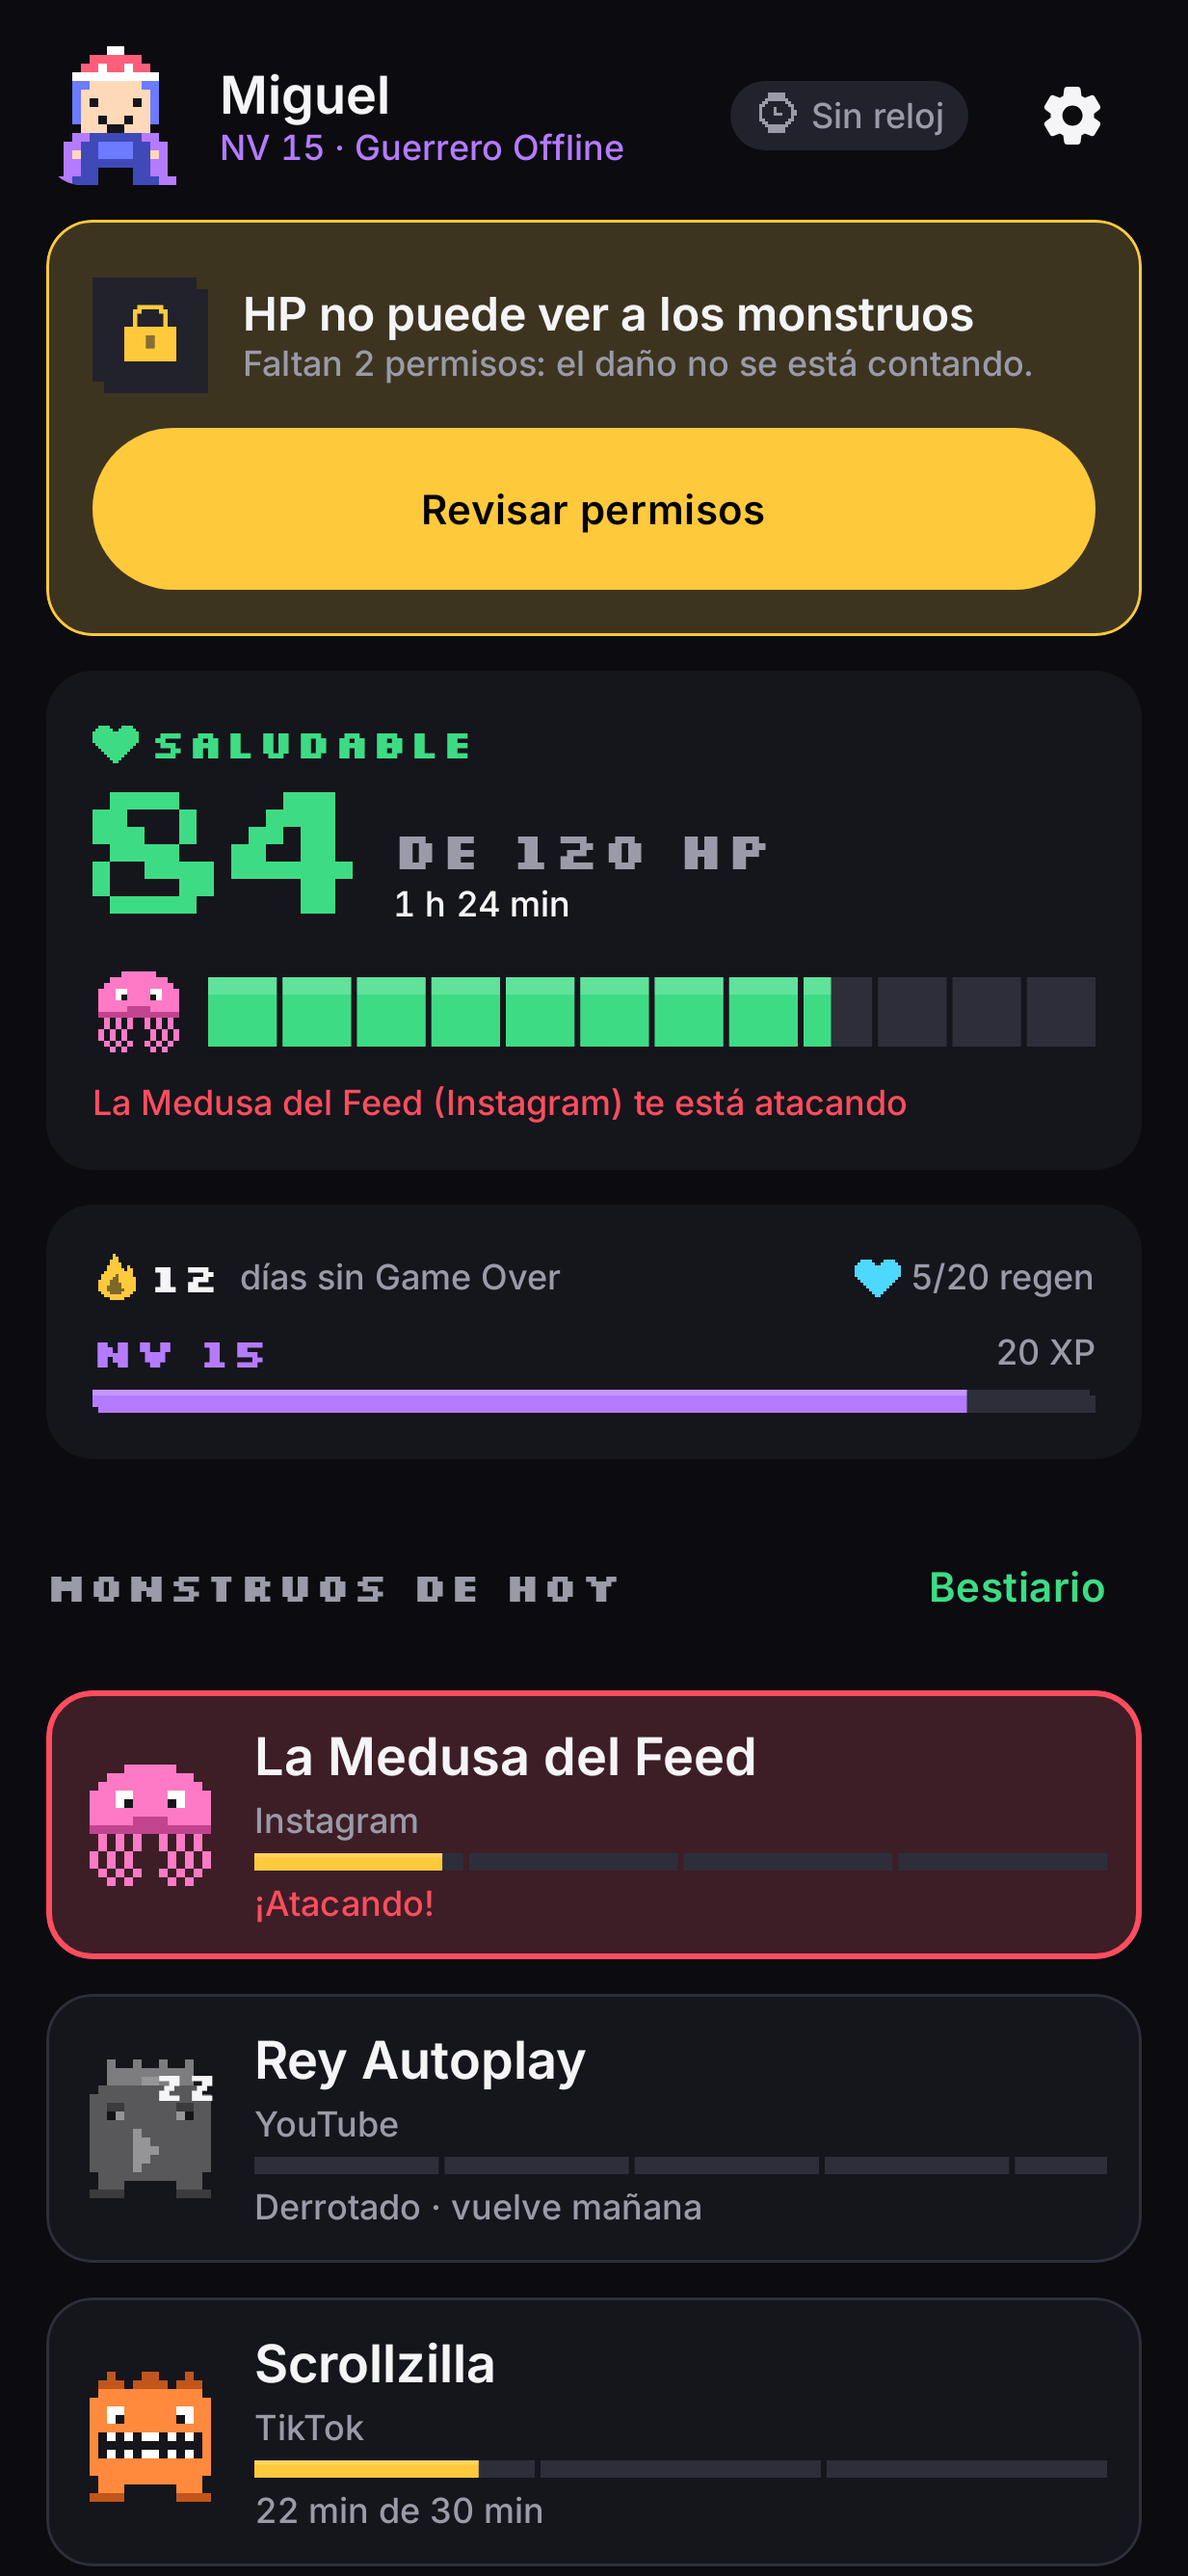
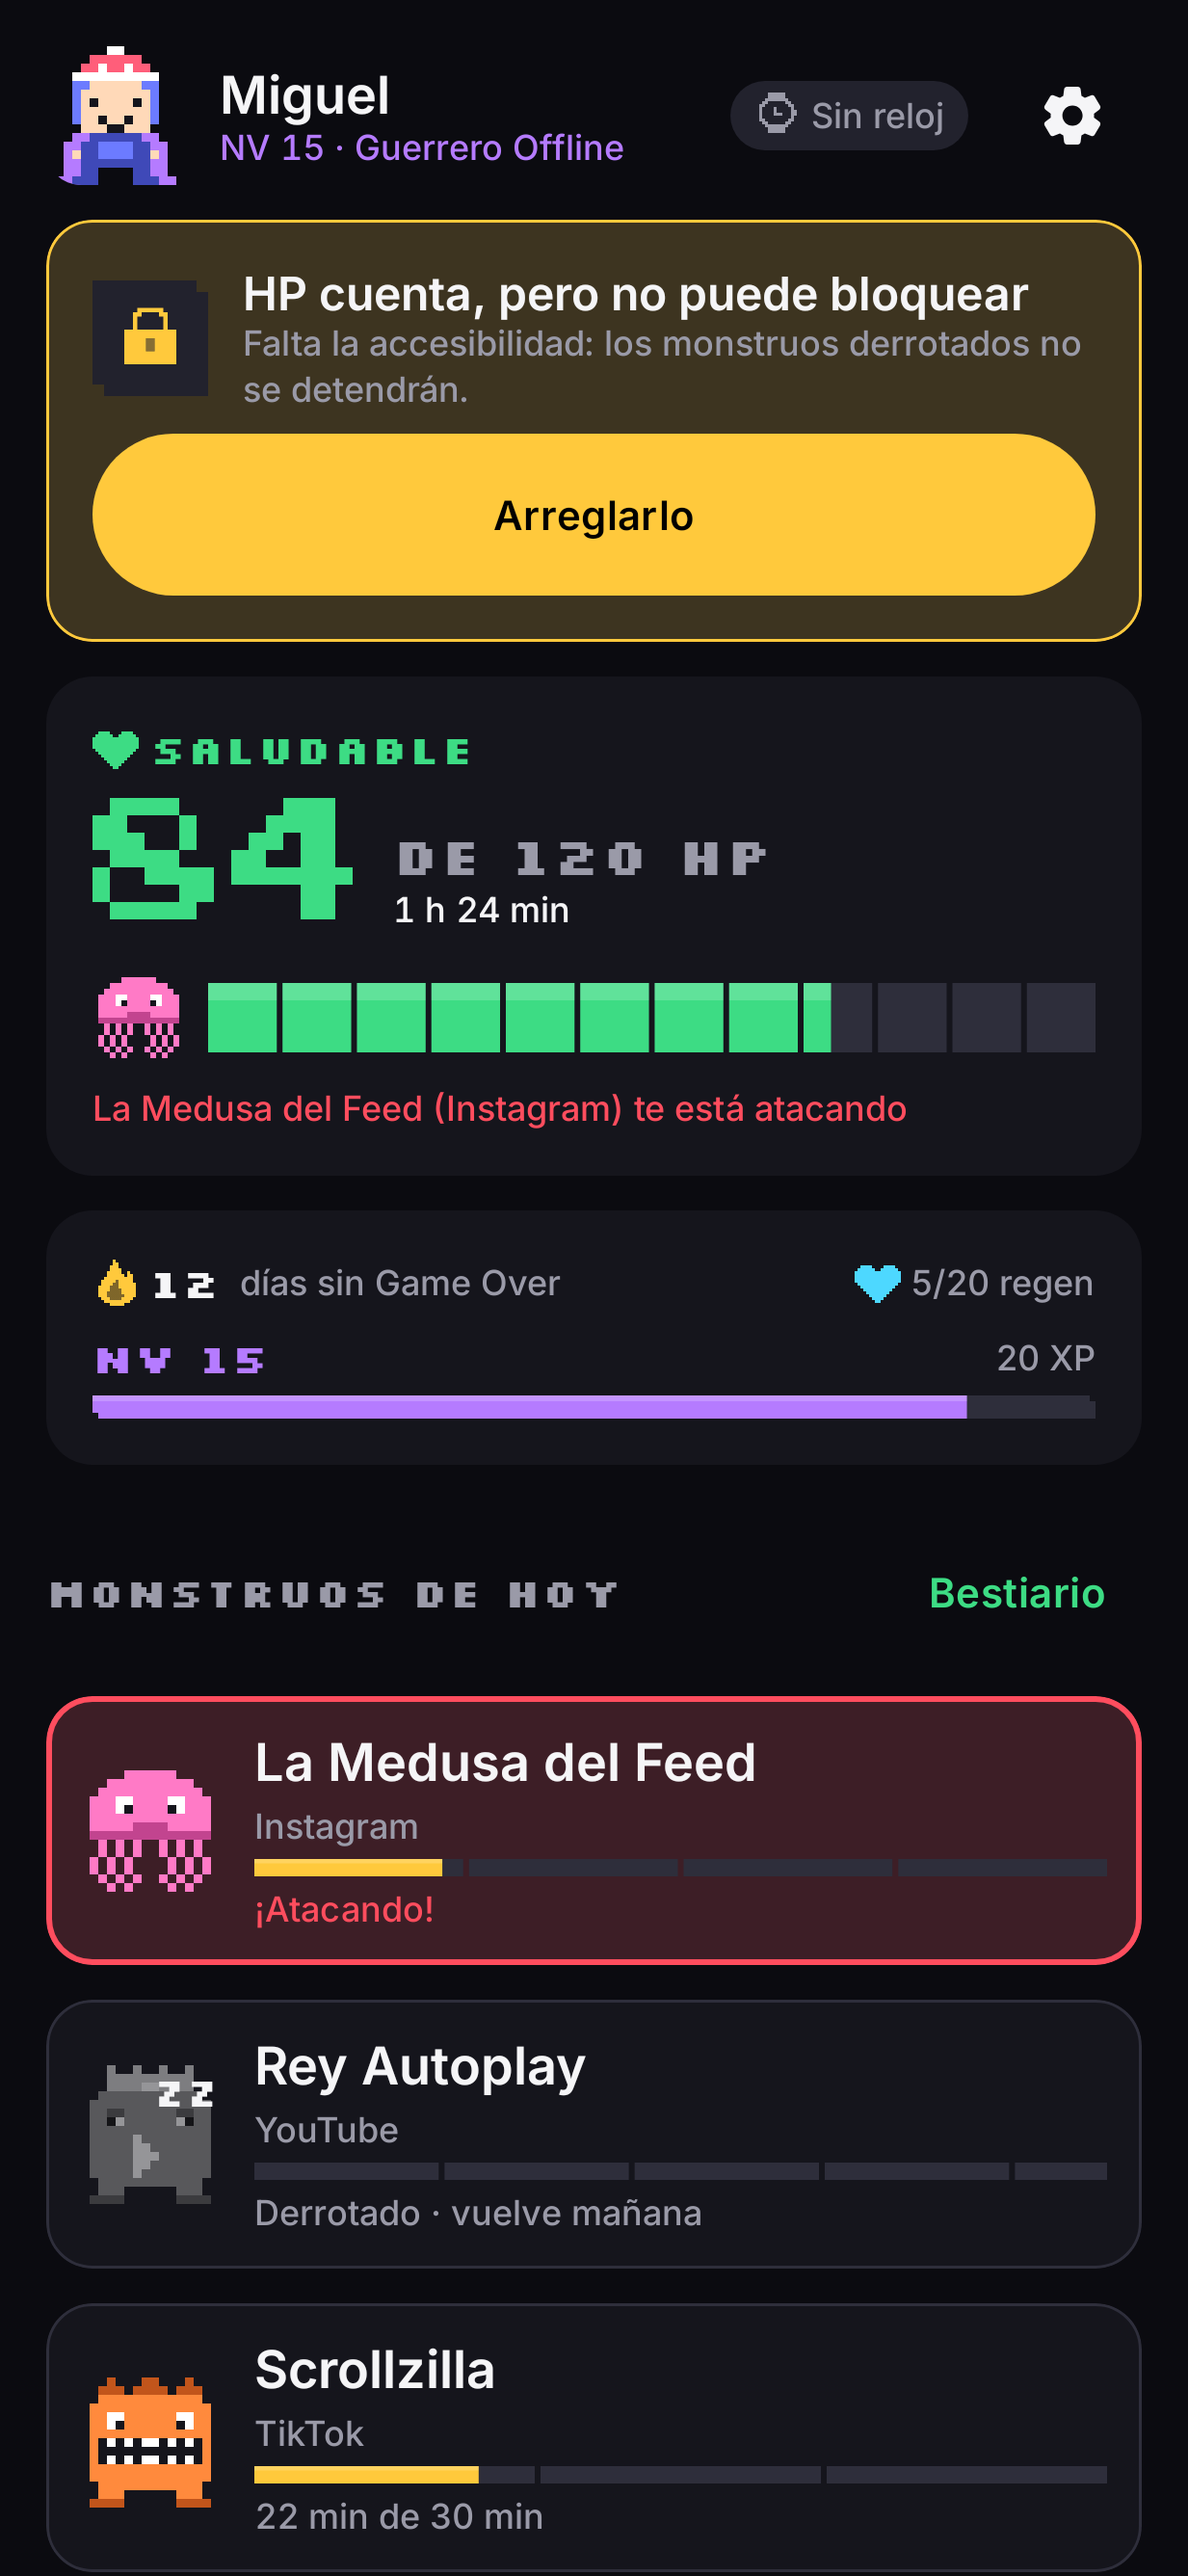
Permisos guiados y protección de batería (encontrado al probar en un Samsung A55)
- El aviso del panel dice qué falta y qué deja de funcionar (contar vs. bloquear).
- Ayuda paso a paso para el "Ajuste restringido" de la Accesibilidad (Android 13+),
  con botón directo a la ficha de la app.
- Nuevo permiso recomendado: funcionar en segundo plano sin restricciones de batería,
  con aviso suave en el panel (Samsung cierra el monitoreo para ahorrar batería).
- Capturas 06 y 33.

diff --git a/mobile/src/main/java/com/desconecta/hp/mobile/ui/home/HomeScreen.kt b/mobile/src/main/java/com/desconecta/hp/mobile/ui/home/HomeScreen.kt
@@ -36,6 +36,7 @@ import androidx.compose.ui.semantics.heading
 import androidx.compose.ui.semantics.semantics
 import androidx.compose.ui.text.style.TextAlign
 import androidx.compose.ui.unit.dp
+import com.desconecta.hp.mobile.system.HpPermission
 import com.desconecta.hp.mobile.ui.ai.BerserkerCard
 import com.desconecta.hp.mobile.ui.ai.CoachCard
 import com.desconecta.hp.mobile.ui.ai.OracleLine
@@ -83,6 +84,8 @@ fun HomeScreen(
     onOpenSettings: () -> Unit,
     onStudyMode: (Int) -> Unit,
     syncIndicator: @Composable () -> Unit = {},
+    /** Permisos que faltan (para decir qué deja de funcionar). */
+    missing: Set<HpPermission> = emptySet(),
     /** Última frase del coach de hoy (null = coach apagado o nada que decir). */
     coach: AiInsight? = null,
     /** Sugerencias de límite pendientes de respuesta. */
@@ -125,15 +128,39 @@ fun HomeScreen(
         }
 
         // --- Sin permisos ----------------------------------------------------------------
+        // Dice QUÉ falta y QUÉ deja de funcionar (no es lo mismo no contar que no bloquear).
+        val noUsage = HpPermission.USAGE in missing
+        val noBlock = HpPermission.ACCESSIBILITY in missing || HpPermission.OVERLAY in missing
         if (missingPermissions > 0) {
             item {
                 HpCard(container = c.hurtContainer, border = c.hpHurt) {
                     InfoRow(
                         PixelIcons.Lock, c.hpHurt,
-                        title = "HP no puede ver a los monstruos",
-                        subtitle = "Faltan $missingPermissions permiso${if (missingPermissions > 1) "s" else ""}: el daño no se está contando.",
+                        title = when {
+                            noUsage -> "HP no está contando tu tiempo"
+                            noBlock -> "HP cuenta, pero no puede bloquear"
+                            else -> "Faltan permisos"
+                        },
+                        subtitle = when {
+                            noUsage && noBlock -> "Falta el acceso al uso (para contar) y la accesibilidad (para bloquear)."
+                            noUsage -> "Falta el permiso de acceso al uso: sin él no veo qué app usas."
+                            noBlock -> "Falta ${if (HpPermission.ACCESSIBILITY in missing) "la accesibilidad" else "mostrar sobre otras apps"}: los monstruos derrotados no se detendrán."
+                            else -> "Faltan $missingPermissions permiso${if (missingPermissions > 1) "s" else ""}."
+                        },
                     )
-                    PrimaryButton("Revisar permisos", onClick = onOpenPermissions, container = c.hpHurt)
+                    PrimaryButton("Arreglarlo", onClick = onOpenPermissions, container = c.hpHurt)
+                }
+            }
+        } else if (HpPermission.BATTERY in missing) {
+            // Recomendado, no crítico: aviso suave (sin rojo) para no alarmar.
+            item {
+                HpCard(border = c.outlineStrong) {
+                    InfoRow(
+                        PixelIcons.Lock, c.textSecondary,
+                        title = "Evita que el teléfono apague HP",
+                        subtitle = "Para ahorrar batería, tu teléfono puede cerrar HP y dejaría de contar. Permite que funcione en segundo plano.",
+                    )
+                    SecondaryButton("Permitir", onClick = onOpenPermissions)
                 }
             }
         }

diff --git a/mobile/src/main/java/com/desconecta/hp/mobile/ui/onboarding/OnboardingScreens.kt b/mobile/src/main/java/com/desconecta/hp/mobile/ui/onboarding/OnboardingScreens.kt
@@ -229,6 +229,11 @@ private fun copyFor(p: HpPermission) = when (p) {
         "Para que la pantalla de \"Monstruo derrotado\" aparezca encima de la app bloqueada.",
         required = true,
     )
+    HpPermission.BATTERY -> PermissionCopy(
+        "Funcionar siempre en segundo plano",
+        "Algunos teléfonos (sobre todo Samsung) apagan las apps en segundo plano para ahorrar batería. Si me apagan, dejo de contar tu tiempo sin avisarte. Gasto muy poca batería.",
+        required = false,
+    )
     HpPermission.NOTIFICATIONS -> PermissionCopy(
         "Notificaciones",
         "Para mostrar tu vida en la barra de notificaciones mientras te protejo.",
@@ -239,6 +244,43 @@ private fun copyFor(p: HpPermission) = when (p) {
         "Solo para apagar la pantalla cuando llegas a Game Over. Nada más.",
         required = false,
     )
+}
+
+/**
+ * Android 13+ bloquea la Accesibilidad de las apps instaladas fuera de la tienda ("Ajuste
+ * restringido"). El paso para desbloquearlo está escondido en la ficha de la app: se explica
+ * aquí con pasos numerados y un botón que lleva directo a esa ficha (ayuda contextual,
+ * Nielsen nº 10). Encontrado al probar en un Samsung A55.
+ */
+@Composable
+private fun RestrictedSettingHelp() {
+    if (android.os.Build.VERSION.SDK_INT < 33) return
+    val c = Hp.colors
+    val context = androidx.compose.ui.platform.LocalContext.current
+    Column(
+        Modifier.fillMaxWidth().background(c.hurtContainer, Hp.shapes.card).padding(HpSpacing.md),
+        verticalArrangement = Arrangement.spacedBy(HpSpacing.xs),
+    ) {
+        Text("¿Sale \"Ajuste restringido\" y no te deja activarlo?", style = Hp.type.bodyStrong, color = c.textPrimary)
+        Text(
+            "1. Toca \"Abrir ficha de HP\".\n" +
+            "2. Toca el menú ⋮ de arriba a la derecha.\n" +
+            "3. Elige \"Permitir ajustes restringidos\".\n" +
+            "4. Vuelve aquí y toca \"Conceder\" otra vez.",
+            style = Hp.type.body, color = c.textSecondary,
+        )
+        SecondaryButton(
+            "Abrir ficha de HP",
+            onClick = {
+                runCatching {
+                    context.startActivity(
+                        android.content.Intent(android.provider.Settings.ACTION_APPLICATION_DETAILS_SETTINGS)
+                            .setData(android.net.Uri.parse("package:" + context.packageName)),
+                    )
+                }
+            },
+        )
+    }
 }
 
 /** Paso 4: permisos uno por uno (el siguiente pendiente se destaca). */
@@ -277,6 +319,7 @@ private fun PermissionsPage(permissions: Map<HpPermission, Boolean>, onGrant: (H
             if (!granted && focused) {
                 Text(copy.why, style = Hp.type.body, color = c.textSecondary)
                 PrimaryButton("Conceder", onClick = { onGrant(p) })
+                if (p == HpPermission.ACCESSIBILITY) RestrictedSettingHelp()
             }
         }
     }

diff --git a/mobile/src/main/java/com/desconecta/hp/mobile/system/SystemServices.kt b/mobile/src/main/java/com/desconecta/hp/mobile/system/SystemServices.kt
@@ -55,7 +55,8 @@ class DeviceLocker @Inject constructor(@param:ApplicationContext private val con
 // Permisos
 // =====================================================================================
 
-enum class HpPermission { USAGE, ACCESSIBILITY, OVERLAY, NOTIFICATIONS, DEVICE_ADMIN }
+/** BATTERY: excluir a HP de la optimización de batería (Samsung y otros cierran el monitoreo). */
+enum class HpPermission { USAGE, ACCESSIBILITY, OVERLAY, BATTERY, NOTIFICATIONS, DEVICE_ADMIN }
 
 @Singleton
 class PermissionChecker @Inject constructor(
@@ -69,6 +70,8 @@ class PermissionChecker @Inject constructor(
         HpPermission.NOTIFICATIONS -> Build.VERSION.SDK_INT < 33 ||
             ContextCompat.checkSelfPermission(context, android.Manifest.permission.POST_NOTIFICATIONS) == PackageManager.PERMISSION_GRANTED
         HpPermission.DEVICE_ADMIN -> locker.isAdminActive()
+        HpPermission.BATTERY -> context.getSystemService(android.os.PowerManager::class.java)
+            ?.isIgnoringBatteryOptimizations(context.packageName) ?: true
     }
 
     fun missingRequired(): List<HpPermission> =
@@ -97,6 +100,8 @@ class PermissionChecker @Inject constructor(
         HpPermission.ACCESSIBILITY -> Intent(Settings.ACTION_ACCESSIBILITY_SETTINGS)
         HpPermission.OVERLAY -> Intent(Settings.ACTION_MANAGE_OVERLAY_PERMISSION, android.net.Uri.parse("package:${context.packageName}"))
         HpPermission.NOTIFICATIONS -> Intent(Settings.ACTION_APP_NOTIFICATION_SETTINGS).putExtra(Settings.EXTRA_APP_PACKAGE, context.packageName)
+        // Diálogo del sistema "¿Permitir que HP se ejecute siempre en segundo plano?".
+        HpPermission.BATTERY -> Intent(Settings.ACTION_REQUEST_IGNORE_BATTERY_OPTIMIZATIONS, android.net.Uri.parse("package:${context.packageName}"))
         HpPermission.DEVICE_ADMIN -> Intent(DevicePolicyManager.ACTION_ADD_DEVICE_ADMIN)
             .putExtra(DevicePolicyManager.EXTRA_DEVICE_ADMIN, locker.admin)
             .putExtra(

diff --git a/mobile/src/test/java/com/desconecta/hp/mobile/PhoneScreenshots.kt b/mobile/src/test/java/com/desconecta/hp/mobile/PhoneScreenshots.kt
@@ -79,7 +79,7 @@ class PhoneScreenshots {
         HomeScreen(game, SampleData.history, true, 0, now, {}, {}, {}, {}, {})
     }
     @Test fun panel_sin_permisos() = shot("06_panel_sin_permisos") {
-        HomeScreen(game, SampleData.history, false, 2, now, {}, {}, {}, {}, {})
+        HomeScreen(game, SampleData.history, false, 1, now, {}, {}, {}, {}, {}, missing = setOf(HpPermission.ACCESSIBILITY, HpPermission.BATTERY))
     }
     @Test fun bloqueo() = shot("07_bloqueo_app") {
         MonsterDefeatedScreen(game.monsters[2], "5 h 20 min", PotionButtonState.READY, {}, {})
@@ -227,5 +227,13 @@ class PhoneScreenshots {
                 payload = com.desconecta.hp.shared.datalayer.WireCodec.json.encodeToString(com.desconecta.hp.shared.ai.model.BattleJournal.serializer(), j),
             ),
         )
+    }
+
+    // --- Permisos guiados (encontrado al probar en un Samsung A55) ------------------------
+    @Config(qualifiers = "w411dp-h1300dp-xxhdpi")
+    @Test fun permisos_accesibilidad() = shot("33_permisos_accesibilidad") {
+        com.desconecta.hp.mobile.ui.onboarding.PermissionsOnlyScreen(
+            mapOf(HpPermission.USAGE to true, HpPermission.ACCESSIBILITY to false, HpPermission.OVERLAY to false, HpPermission.BATTERY to false),
+        ) {}
     }
 }

diff --git a/mobile/src/main/java/com/desconecta/hp/mobile/ui/PhoneApp.kt b/mobile/src/main/java/com/desconecta/hp/mobile/ui/PhoneApp.kt
@@ -251,6 +251,7 @@ fun PhoneApp(viewModel: MainViewModel) {
                                 )
                             },
                             missingPermissions = listOf(HpPermission.USAGE, HpPermission.ACCESSIBILITY, HpPermission.OVERLAY).count { permissions[it] != true },
+                            missing = HpPermission.entries.filter { permissions[it] != true }.toSet(),
                             now = now,
                             onOpenPermissions = { nav.navigate(Routes.PERMISSIONS) },
                             onOpenBestiary = {

diff --git a/mobile/src/main/java/com/desconecta/hp/mobile/ui/settings/SettingsScreen.kt b/mobile/src/main/java/com/desconecta/hp/mobile/ui/settings/SettingsScreen.kt
@@ -193,6 +193,7 @@ fun permissionName(p: HpPermission) = when (p) {
     HpPermission.ACCESSIBILITY -> "Servicio de accesibilidad"
     HpPermission.OVERLAY -> "Mostrar sobre otras apps"
     HpPermission.NOTIFICATIONS -> "Notificaciones"
+    HpPermission.BATTERY -> "Segundo plano sin restricciones"
     HpPermission.DEVICE_ADMIN -> "Bloqueo de pantalla"
 }
 
